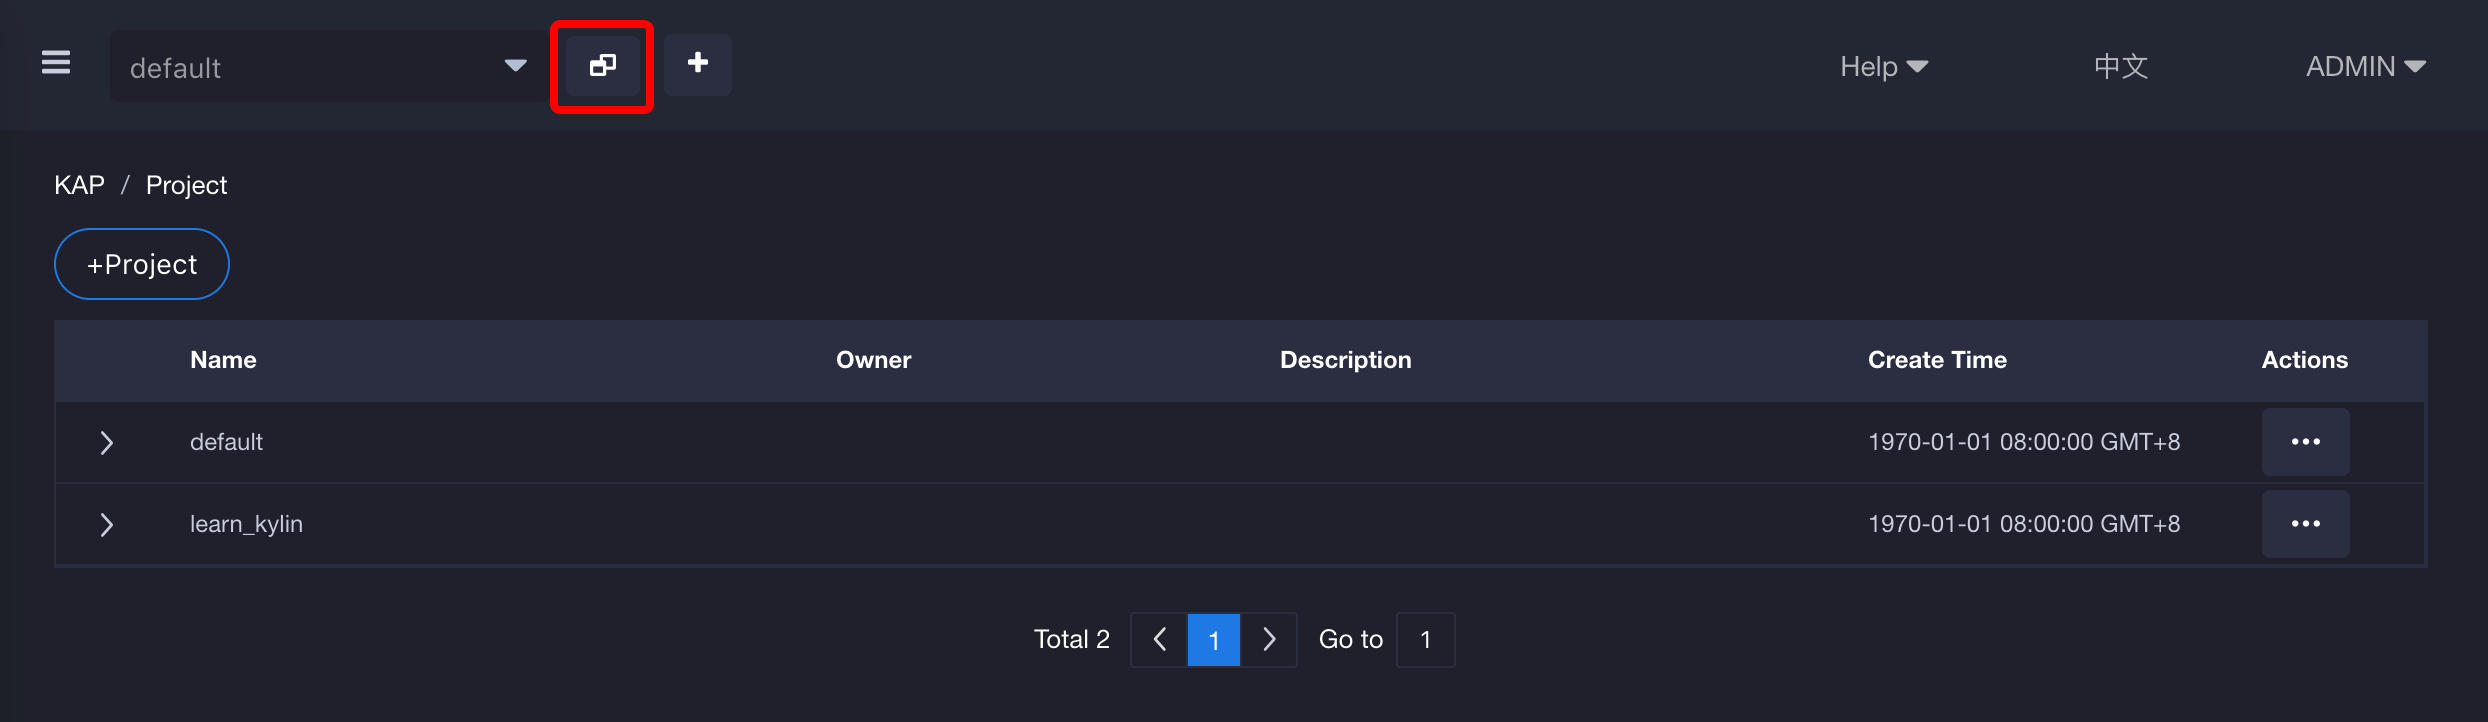
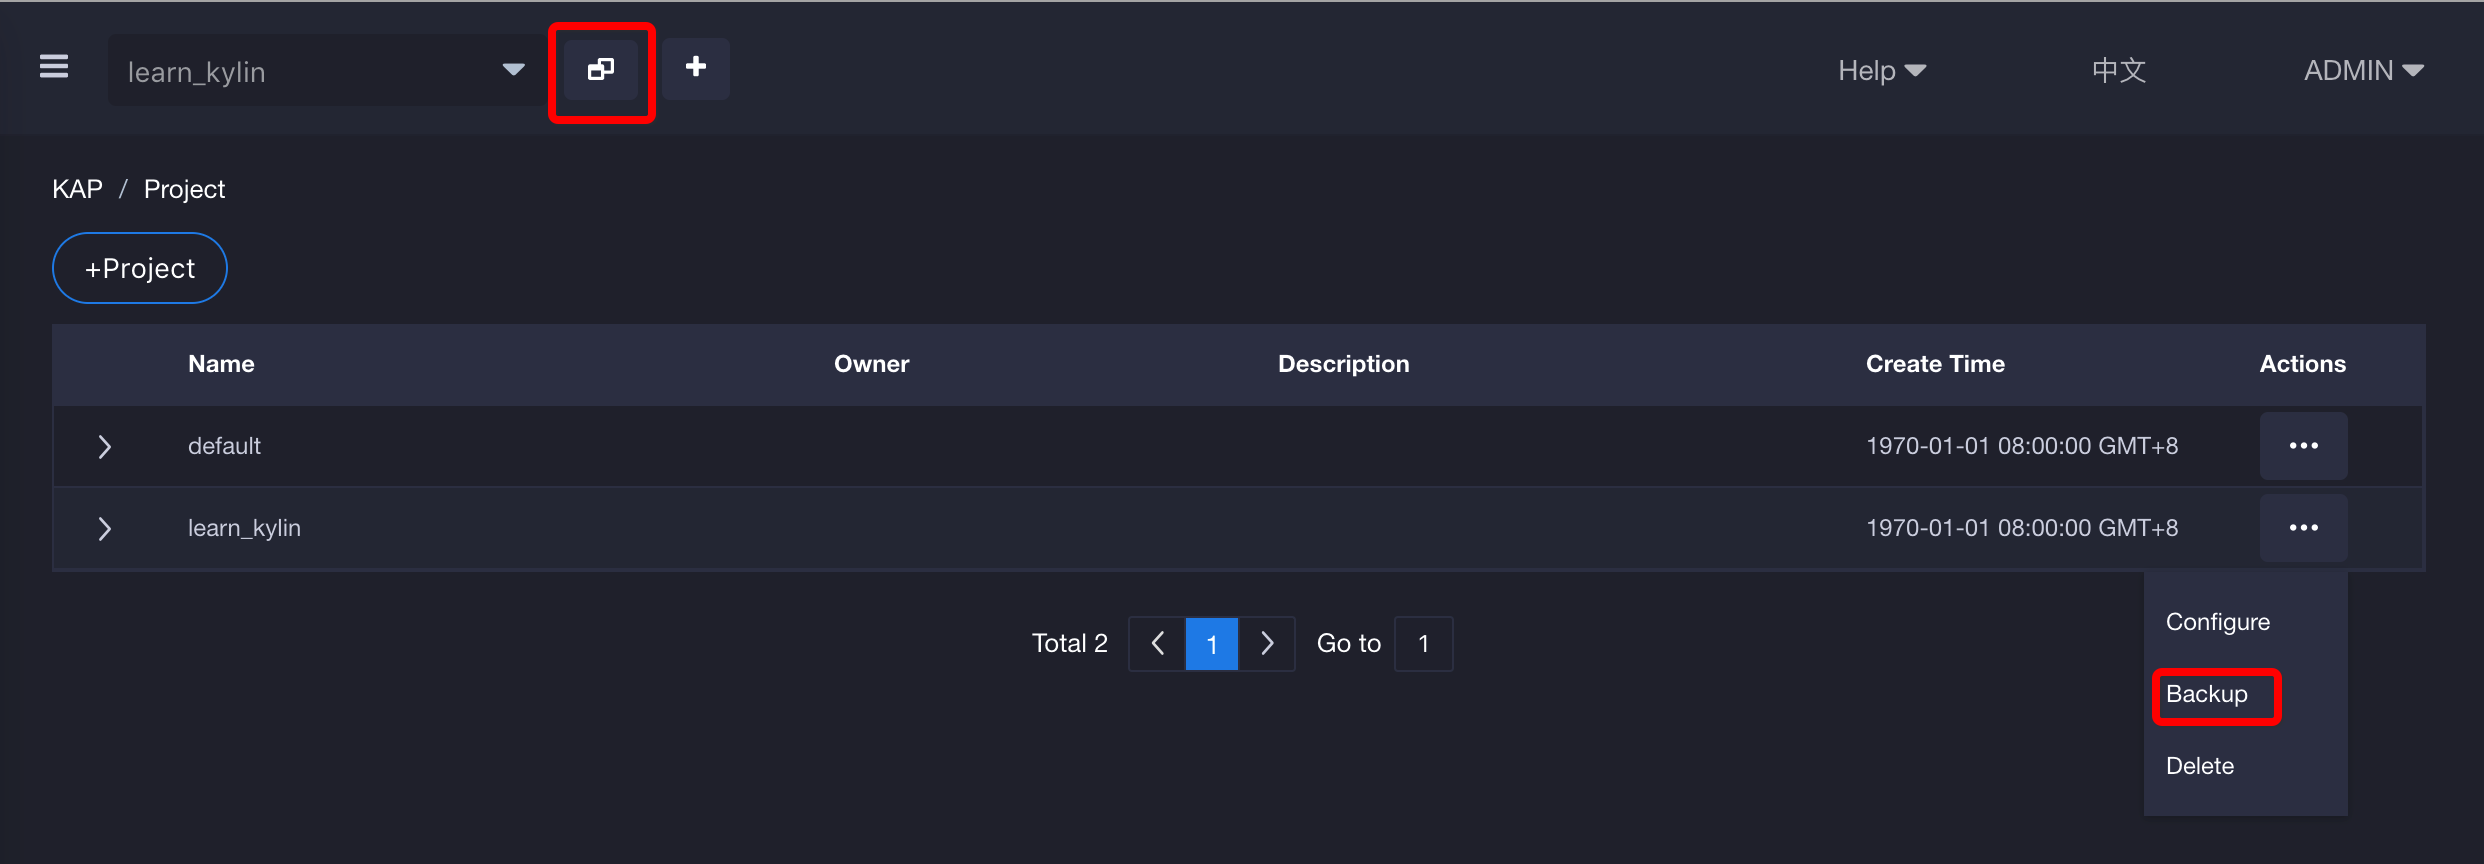
description about backup message
some description about backup message and minor changes for images

diff --git a/en/operation/metadata_backup.en.md b/en/operation/metadata_backup.en.md
@@ -64,13 +64,13 @@ Besides using the command line to backup metadata, KAP also supports to backup m
 
 - **Instance metadata backup**
 
-Go to the system page and click the backup button to backup instance metadata. When seeing the following message it means a successful backup is taken:
+Go to the system page and click the backup button to backup instance metadata. The instance metadata will backup in the KAP installing path (e.g. /root/kap-plus-2.5-hbase1.x-236/kap-plus-2.5.5-alpha3.1-hbase1.x/meta_backups).  The name will be generated as meta_current time (e.g. meta_2018_01_11_07_01_47).
 
 ![instance metadata backup](images/instance_backup_en.png)
 
 - **Project metadata backup**
 
-Click the project list button(at the top of the page) and choose the project which needs to backup. Then unfold the action menu and click the backup button. When seeing the following message it means a successful backup is taken:
+Click the project list button(at the top of the page) and choose the project which needs to backup. Then unfold the action menu and click the backup button. The project metadata will backup in the KAP installing path and the name will be generated as project_project name_current time (e.g. project_learn_kylin_2018_01_11_19_03_09).
 
 ![project page](images/project_page_en.png)
 
@@ -78,7 +78,7 @@ Click the project list button(at the top of the page) and choose the project whi
 
 - **Cube metadata backup**
 
-Go to the studio page and switch to Cube. Then choose one cube and unfold the action menu backup metadata. When seeing the following message it means a successful backup is taken:
+Go to the studio page and switch to Cube. Then choose one cube and unfold the action menu backup metadata. The Cube metadata will backup in the KAP installing path and the name will be generated as cube_cube name_current time (e.g. cube_corr_2018_01_11_19_04_21).
 
 ![studio page](images/studio_page_en.png)
 

diff --git a/zh-cn/operation/metadata_backup.cn.md b/zh-cn/operation/metadata_backup.cn.md
@@ -64,13 +64,13 @@ more kylin_sales_cube.json
 
 * **系统元数据保存**
 
-进入页面左侧系统页面后，点击备份按钮进行系统元数据备份，备份成功如图所示：
+进入页面左侧系统页面后，点击备份按钮进行系统元数据备份，元数据文件会备份在KAP安装目录下的meta_backups文件夹中（如图中的/root/kap-plus-2.5-hbase1.x-236/kap-plus-2.5.5-alpha3.1-hbase1.x/meta_backups）。文件命名为meta_当前备份时间（如meta_2018_01_11_07_00_25）。
 
 ![系统元数据备份](images/instance_backup_cn.png)
 
 * **项目元数据保存**
 
-点击页面上方项目展开按键后，选择需要备份的项目点击操作按键后进行备份，备份成功如图所示：
+点击页面上方项目展开按键后，选择需要备份的项目点击操作按键后进行备份，项目元数据文件会备份在KAP安装目录下的meta_backups文件夹中。文件命名为project_备份项目名\_当前时间（如project_learn_kylin_2018_01_11_19_02_23）。
 
 ![项目页面](images/project_page_cn.png)
 
@@ -78,7 +78,7 @@ more kylin_sales_cube.json
 
 * **Cube元数据保存**
 
-点击页面左侧建模按键后，选择Cube界面，选择需要备份的Cube点击操作按键后进行备份，备份成功如图所示：
+点击页面左侧建模按键后，选择Cube界面，选择需要备份的Cube点击操作按键后进行备份，Cube元数据文件会备份在KAP安装目录下的meta_backups文件夹中。文件命名为cube_备份Cube名\_当前时间（如cube_corr_2018_01_11_19_04_47）。
 
 ![建模页面](images/studio_page_cn.png)
 
